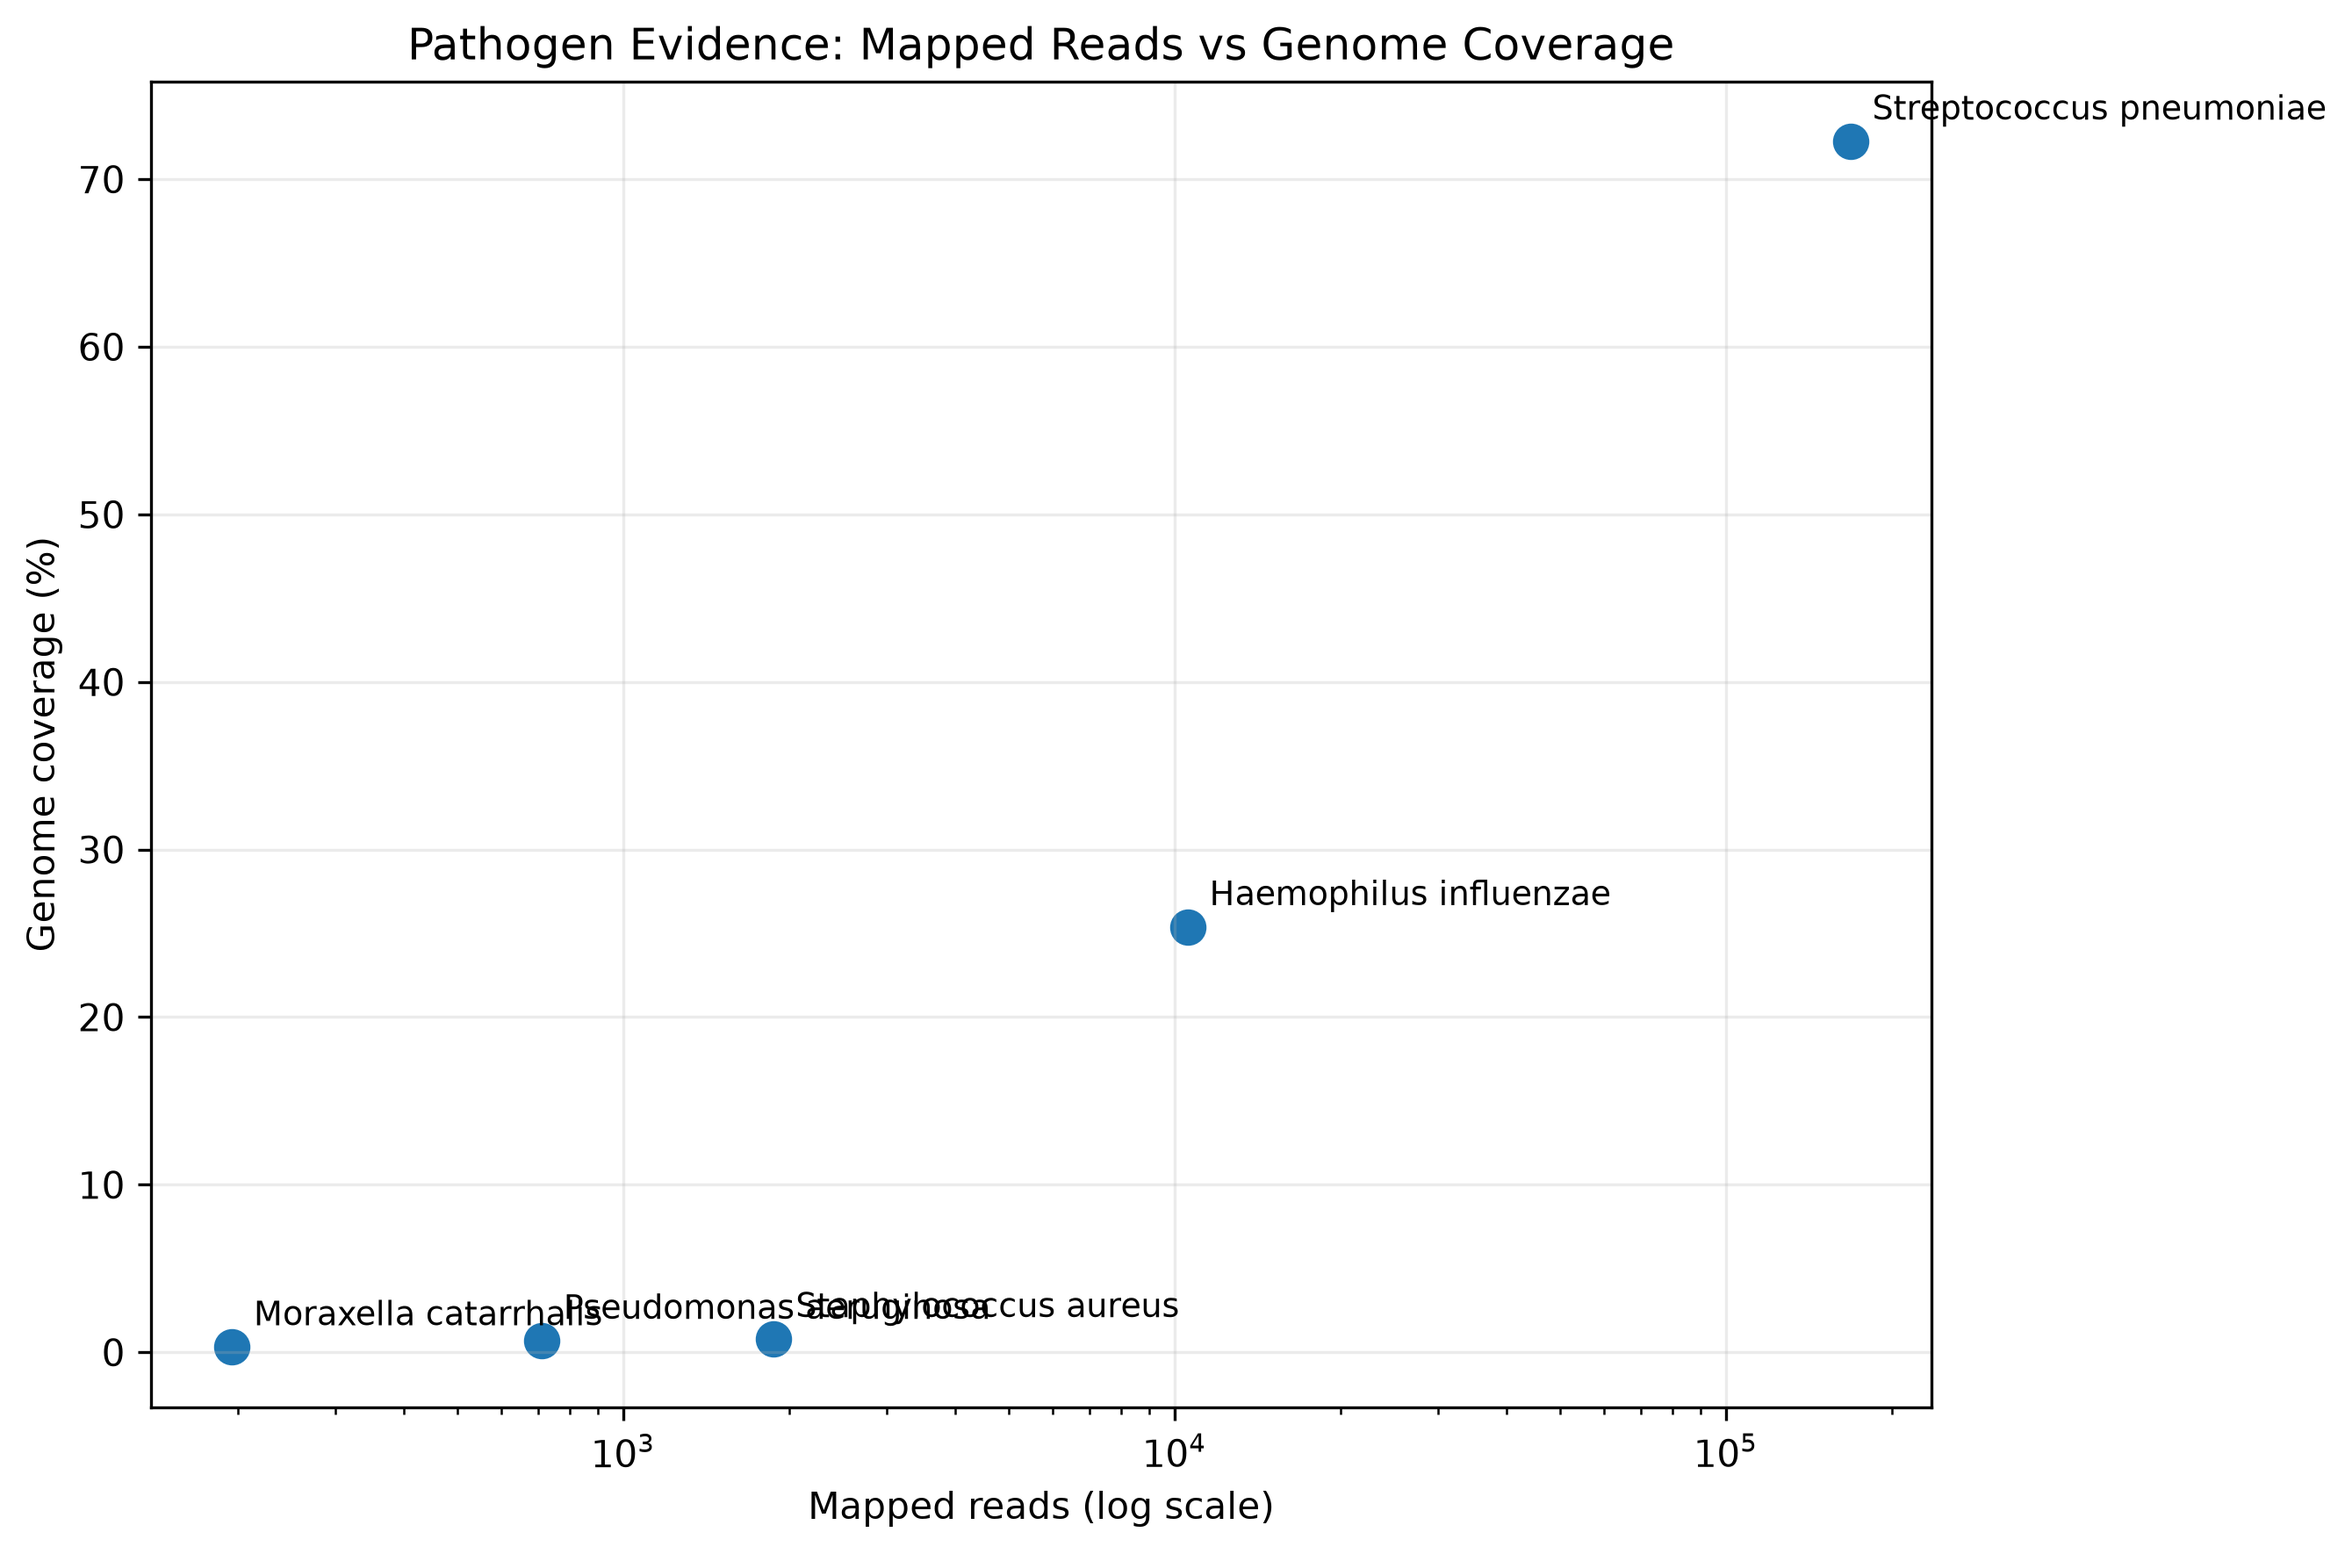
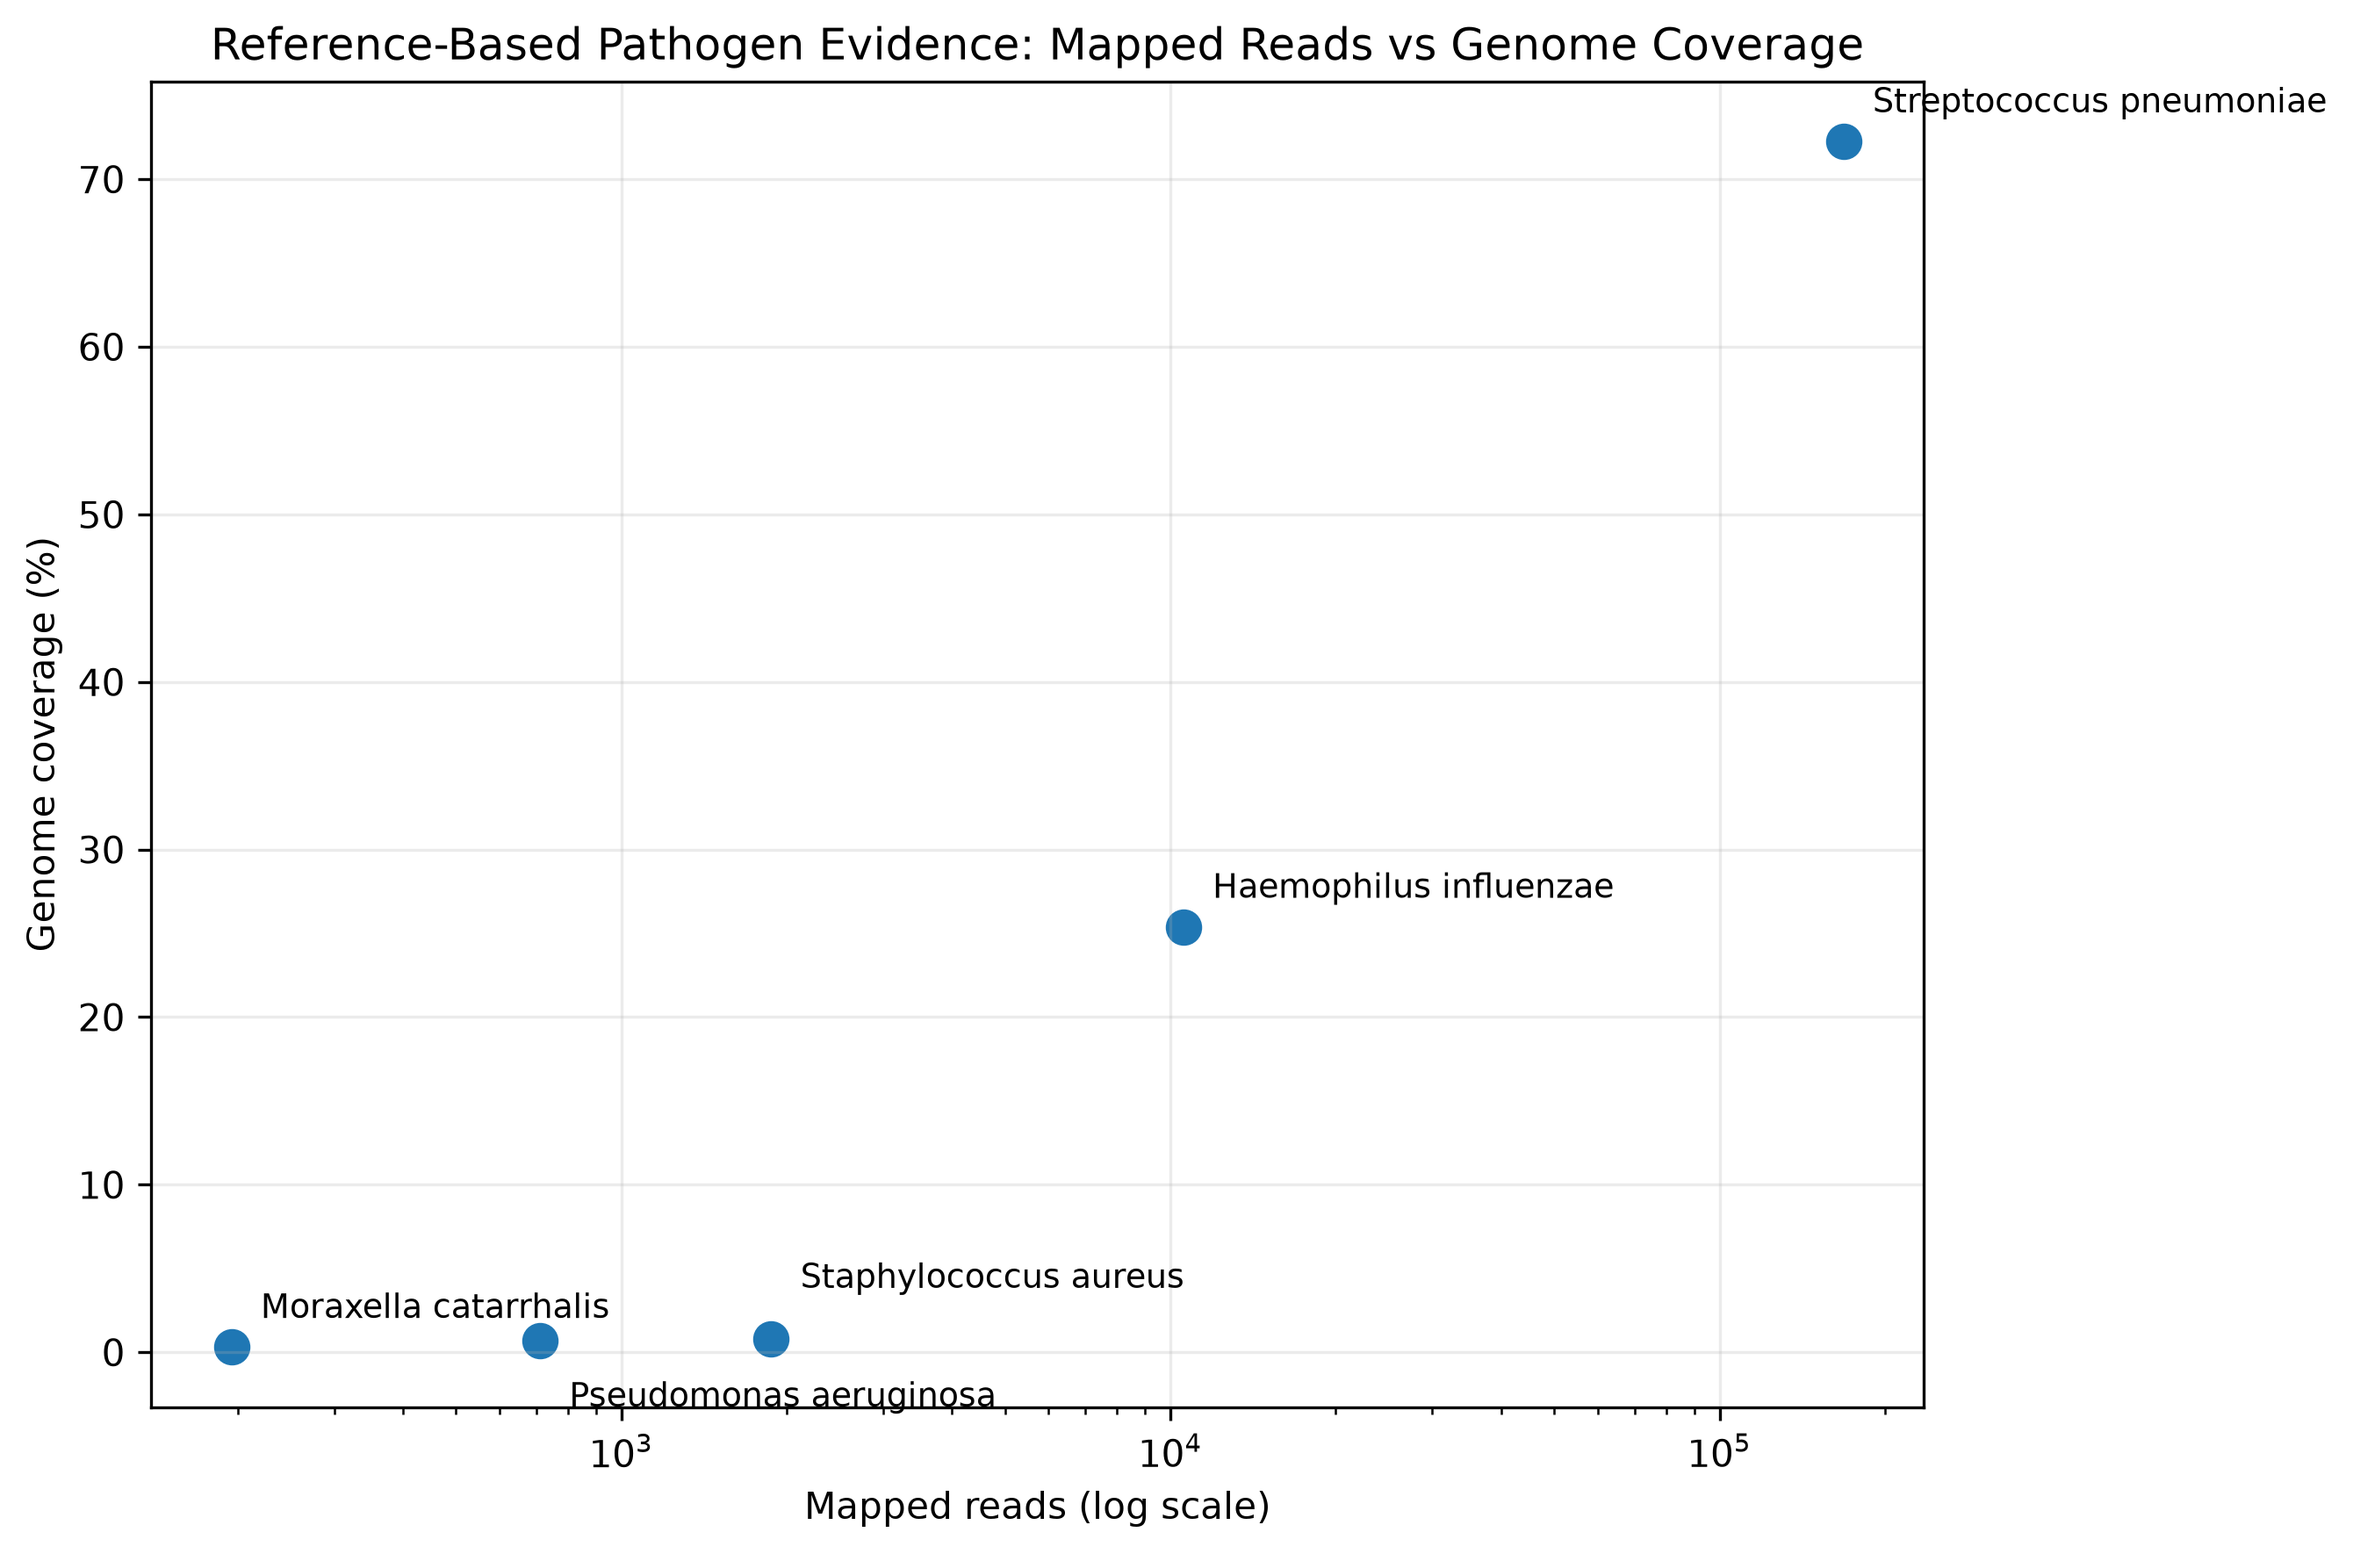
Add integrated pathogen evidence analysis

diff --git a/scripts/evidence_summary.py b/scripts/evidence_summary.py
@@ -1,0 +1,126 @@
+import pandas as pd
+from pathlib import Path
+
+# ============================================================
+# Integrated pathogen evidence summary
+# ============================================================
+
+INPUT_COVERAGE = "results/final_pathogen_coverage_summary.csv"
+INPUT_ABUNDANCE = "results/pathogen_mapped_read_distribution.csv"
+
+OUTPUT_TABLE = "results/pathogen_evidence_summary.csv"
+
+# ------------------------------------------------------------
+# Load input tables
+# ------------------------------------------------------------
+
+coverage = pd.read_csv(INPUT_COVERAGE)
+abundance = pd.read_csv(INPUT_ABUNDANCE)
+
+# ------------------------------------------------------------
+# Keep only additional coverage metrics
+# ------------------------------------------------------------
+
+coverage_metrics = coverage[
+    [
+        "Pathogen",
+        "Coverage_5x_Percent",
+        "Coverage_10x_Percent"
+    ]
+]
+
+# ------------------------------------------------------------
+# Merge abundance and coverage results
+# ------------------------------------------------------------
+
+evidence = abundance.merge(
+    coverage_metrics,
+    on="Pathogen",
+    how="left"
+)
+
+# ------------------------------------------------------------
+# Descriptive evidence interpretation
+# ------------------------------------------------------------
+
+def interpret_evidence(row):
+
+    mapped_share = row["Mapped_Read_Share_Percent"]
+    coverage_pct = row["Coverage_Percent"]
+    mean_depth = row["Mean_Depth"]
+
+    if (
+        mapped_share >= 50
+        and coverage_pct >= 40
+        and mean_depth >= 5
+    ):
+        return "Strong computational evidence"
+
+    elif (
+        mapped_share >= 1
+        and coverage_pct >= 10
+        and mean_depth >= 0.5
+    ):
+        return "Secondary / tentative evidence"
+
+    else:
+        return "Minimal mapped-read signal"
+
+evidence["Evidence_Interpretation"] = evidence.apply(
+    interpret_evidence,
+    axis=1
+)
+
+# ------------------------------------------------------------
+# Sort by mapped-read share
+# ------------------------------------------------------------
+
+evidence = evidence.sort_values(
+    "Mapped_Read_Share_Percent",
+    ascending=False
+).reset_index(drop=True)
+
+# ------------------------------------------------------------
+# Save integrated evidence table
+# ------------------------------------------------------------
+
+Path("results").mkdir(exist_ok=True)
+
+evidence[
+    [
+        "Pathogen",
+        "Mapped_Reads",
+        "Mapped_Read_Share_Percent",
+        "Coverage_Percent",
+        "Coverage_5x_Percent",
+        "Coverage_10x_Percent",
+        "Mean_Depth",
+        "Evidence_Interpretation"
+    ]
+].to_csv(
+    OUTPUT_TABLE,
+    index=False
+)
+
+# ------------------------------------------------------------
+# Console output
+# ------------------------------------------------------------
+
+print("Integrated pathogen evidence summary generated successfully.")
+print(f"Saved: {OUTPUT_TABLE}")
+print()
+
+print(
+    evidence[
+        [
+            "Pathogen",
+            "Mapped_Reads",
+            "Mapped_Read_Share_Percent",
+            "Coverage_Percent",
+            "Coverage_5x_Percent",
+            "Coverage_10x_Percent",
+            "Mean_Depth",
+            "Evidence_Interpretation"
+        ]
+    ].to_string(index=False)
+)

diff --git a/scripts/evidence_visualization.py b/scripts/evidence_visualization.py
@@ -83,8 +83,15 @@ ax.scatter(
     s=80
 )
 
+   # Add pathogen labels with staggered offsets
+label_offsets = {
+    "Streptococcus pneumoniae": (8, 8),
+    "Haemophilus influenzae": (8, 8),
+    "Staphylococcus aureus": (8, 14),
+    "Pseudomonas aeruginosa": (8, -18),
+    "Moraxella catarrhalis": (8, 8),
+}
 
-# Add pathogen labels
 for _, row in df.iterrows():
 
     coverage = row["Coverage_Percent"]
@@ -92,13 +99,18 @@ for _, row in df.iterrows():
     if pd.isna(coverage):
         continue
 
+    offset = label_offsets.get(
+        row["Pathogen"],
+        (8, 8)
+    )
+
     ax.annotate(
         row["Pathogen"],
         (
             row["Mapped_Reads"],
             coverage
         ),
-        xytext=(6, 6),
+        xytext=offset,
         textcoords="offset points",
         fontsize=9
     )
@@ -115,7 +127,7 @@ ax.set_ylabel(
 )
 
 ax.set_title(
-    "Pathogen Evidence: Mapped Reads vs Genome Coverage"
+    "Reference-Based Pathogen Evidence: Mapped Reads vs Genome Coverage"
 )
 
 ax.grid(
